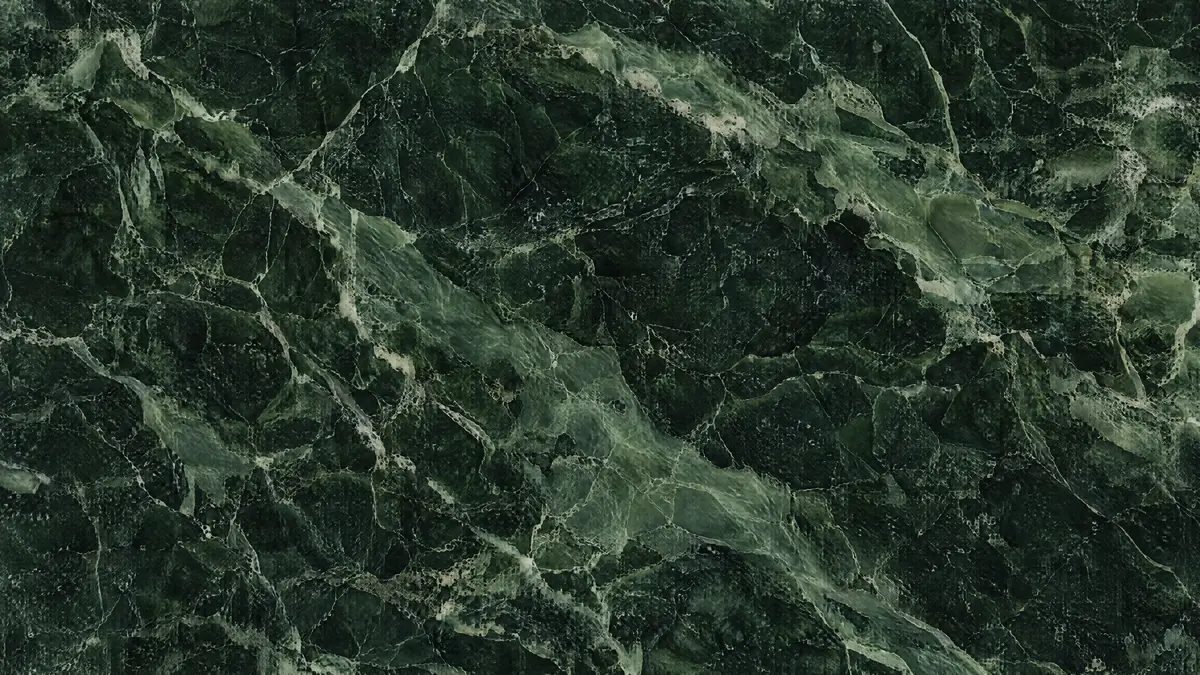
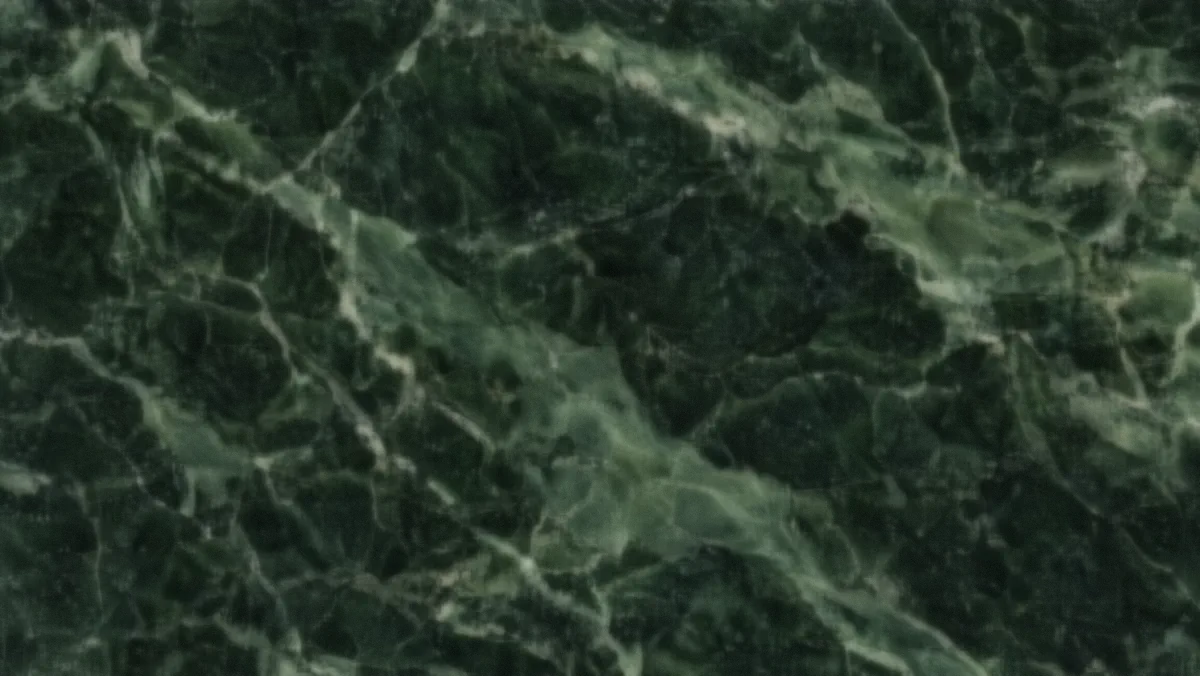
style(site): Verde Alpi z oryginału 4K, lekko rozmyty i bez mocnej kompresji (kontakt, studia, 404, karta OG)

diff --git a/case/aigets/index.html b/case/aigets/index.html
@@ -76,7 +76,7 @@
     <link rel="preload" as="style" href="https://fonts.googleapis.com/css2?family=Playfair+Display:wght@400;600;700&family=DM+Sans:wght@400;500;600;700&family=JetBrains+Mono:wght@400;500;600&display=swap">
     <link href="https://fonts.googleapis.com/css2?family=Playfair+Display:wght@400;600;700&family=DM+Sans:wght@400;500;600;700&family=JetBrains+Mono:wght@400;500;600&display=swap" rel="stylesheet" media="print" onload="this.media='all'">
     <noscript><link href="https://fonts.googleapis.com/css2?family=Playfair+Display:wght@400;600;700&family=DM+Sans:wght@400;500;600;700&family=JetBrains+Mono:wght@400;500;600&display=swap" rel="stylesheet"></noscript>
-    <link rel="stylesheet" href="/style.css?v=114">
+    <link rel="stylesheet" href="/style.css?v=115">
 </head>
 <body>
     <!-- Skip to main content link for accessibility -->

diff --git a/case/analizy-danych/index.html b/case/analizy-danych/index.html
@@ -89,7 +89,7 @@
     <link rel="preload" as="style" href="https://fonts.googleapis.com/css2?family=Playfair+Display:wght@400;600;700&family=DM+Sans:wght@400;500;600;700&family=JetBrains+Mono:wght@400;500;600&display=swap">
     <link href="https://fonts.googleapis.com/css2?family=Playfair+Display:wght@400;600;700&family=DM+Sans:wght@400;500;600;700&family=JetBrains+Mono:wght@400;500;600&display=swap" rel="stylesheet" media="print" onload="this.media='all'">
     <noscript><link href="https://fonts.googleapis.com/css2?family=Playfair+Display:wght@400;600;700&family=DM+Sans:wght@400;500;600;700&family=JetBrains+Mono:wght@400;500;600&display=swap" rel="stylesheet"></noscript>
-    <link rel="stylesheet" href="/style.css?v=114">
+    <link rel="stylesheet" href="/style.css?v=115">
 </head>
 <body>
     <!-- Skip to main content link for accessibility -->

diff --git a/case/automargiela/index.html b/case/automargiela/index.html
@@ -77,7 +77,7 @@
     <link rel="preload" as="style" href="https://fonts.googleapis.com/css2?family=Playfair+Display:wght@400;600;700&family=DM+Sans:wght@400;500;600;700&family=JetBrains+Mono:wght@400;500;600&display=swap">
     <link href="https://fonts.googleapis.com/css2?family=Playfair+Display:wght@400;600;700&family=DM+Sans:wght@400;500;600;700&family=JetBrains+Mono:wght@400;500;600&display=swap" rel="stylesheet" media="print" onload="this.media='all'">
     <noscript><link href="https://fonts.googleapis.com/css2?family=Playfair+Display:wght@400;600;700&family=DM+Sans:wght@400;500;600;700&family=JetBrains+Mono:wght@400;500;600&display=swap" rel="stylesheet"></noscript>
-    <link rel="stylesheet" href="/style.css?v=114">
+    <link rel="stylesheet" href="/style.css?v=115">
 </head>
 <body>
     <!-- Skip to main content link for accessibility -->

diff --git a/case/jakieprawo/index.html b/case/jakieprawo/index.html
@@ -77,7 +77,7 @@
     <link rel="preload" as="style" href="https://fonts.googleapis.com/css2?family=Playfair+Display:wght@400;600;700&family=DM+Sans:wght@400;500;600;700&family=JetBrains+Mono:wght@400;500;600&display=swap">
     <link href="https://fonts.googleapis.com/css2?family=Playfair+Display:wght@400;600;700&family=DM+Sans:wght@400;500;600;700&family=JetBrains+Mono:wght@400;500;600&display=swap" rel="stylesheet" media="print" onload="this.media='all'">
     <noscript><link href="https://fonts.googleapis.com/css2?family=Playfair+Display:wght@400;600;700&family=DM+Sans:wght@400;500;600;700&family=JetBrains+Mono:wght@400;500;600&display=swap" rel="stylesheet"></noscript>
-    <link rel="stylesheet" href="/style.css?v=114">
+    <link rel="stylesheet" href="/style.css?v=115">
 </head>
 <body>
     <!-- Skip to main content link for accessibility -->

diff --git a/case/majeranek/index.html b/case/majeranek/index.html
@@ -77,7 +77,7 @@
     <link rel="preload" as="style" href="https://fonts.googleapis.com/css2?family=Playfair+Display:wght@400;600;700&family=DM+Sans:wght@400;500;600;700&family=JetBrains+Mono:wght@400;500;600&display=swap">
     <link href="https://fonts.googleapis.com/css2?family=Playfair+Display:wght@400;600;700&family=DM+Sans:wght@400;500;600;700&family=JetBrains+Mono:wght@400;500;600&display=swap" rel="stylesheet" media="print" onload="this.media='all'">
     <noscript><link href="https://fonts.googleapis.com/css2?family=Playfair+Display:wght@400;600;700&family=DM+Sans:wght@400;500;600;700&family=JetBrains+Mono:wght@400;500;600&display=swap" rel="stylesheet"></noscript>
-    <link rel="stylesheet" href="/style.css?v=114">
+    <link rel="stylesheet" href="/style.css?v=115">
 </head>
 <body>
     <!-- Skip to main content link for accessibility -->

diff --git a/case/narzedzia/index.html b/case/narzedzia/index.html
@@ -98,7 +98,7 @@
     <link rel="preload" as="style" href="https://fonts.googleapis.com/css2?family=Playfair+Display:wght@400;600;700&family=DM+Sans:wght@400;500;600;700&family=JetBrains+Mono:wght@400;500;600&display=swap">
     <link href="https://fonts.googleapis.com/css2?family=Playfair+Display:wght@400;600;700&family=DM+Sans:wght@400;500;600;700&family=JetBrains+Mono:wght@400;500;600&display=swap" rel="stylesheet" media="print" onload="this.media='all'">
     <noscript><link href="https://fonts.googleapis.com/css2?family=Playfair+Display:wght@400;600;700&family=DM+Sans:wght@400;500;600;700&family=JetBrains+Mono:wght@400;500;600&display=swap" rel="stylesheet"></noscript>
-    <link rel="stylesheet" href="/style.css?v=114">
+    <link rel="stylesheet" href="/style.css?v=115">
 </head>
 <body>
     <!-- Skip to main content link for accessibility -->

diff --git a/case/parawan/index.html b/case/parawan/index.html
@@ -77,7 +77,7 @@
     <link rel="preload" as="style" href="https://fonts.googleapis.com/css2?family=Playfair+Display:wght@400;600;700&family=DM+Sans:wght@400;500;600;700&family=JetBrains+Mono:wght@400;500;600&display=swap">
     <link href="https://fonts.googleapis.com/css2?family=Playfair+Display:wght@400;600;700&family=DM+Sans:wght@400;500;600;700&family=JetBrains+Mono:wght@400;500;600&display=swap" rel="stylesheet" media="print" onload="this.media='all'">
     <noscript><link href="https://fonts.googleapis.com/css2?family=Playfair+Display:wght@400;600;700&family=DM+Sans:wght@400;500;600;700&family=JetBrains+Mono:wght@400;500;600&display=swap" rel="stylesheet"></noscript>
-    <link rel="stylesheet" href="/style.css?v=114">
+    <link rel="stylesheet" href="/style.css?v=115">
 </head>
 <body>
     <!-- Skip to main content link for accessibility -->

diff --git a/case/upfor/index.html b/case/upfor/index.html
@@ -77,7 +77,7 @@
     <link rel="preload" as="style" href="https://fonts.googleapis.com/css2?family=Playfair+Display:wght@400;600;700&family=DM+Sans:wght@400;500;600;700&family=JetBrains+Mono:wght@400;500;600&display=swap">
     <link href="https://fonts.googleapis.com/css2?family=Playfair+Display:wght@400;600;700&family=DM+Sans:wght@400;500;600;700&family=JetBrains+Mono:wght@400;500;600&display=swap" rel="stylesheet" media="print" onload="this.media='all'">
     <noscript><link href="https://fonts.googleapis.com/css2?family=Playfair+Display:wght@400;600;700&family=DM+Sans:wght@400;500;600;700&family=JetBrains+Mono:wght@400;500;600&display=swap" rel="stylesheet"></noscript>
-    <link rel="stylesheet" href="/style.css?v=114">
+    <link rel="stylesheet" href="/style.css?v=115">
 </head>
 <body>
     <!-- Skip to main content link for accessibility -->

diff --git a/case/urzednik-i-ai/index.html b/case/urzednik-i-ai/index.html
@@ -77,7 +77,7 @@
     <link rel="preload" as="style" href="https://fonts.googleapis.com/css2?family=Playfair+Display:wght@400;600;700&family=DM+Sans:wght@400;500;600;700&family=JetBrains+Mono:wght@400;500;600&display=swap">
     <link href="https://fonts.googleapis.com/css2?family=Playfair+Display:wght@400;600;700&family=DM+Sans:wght@400;500;600;700&family=JetBrains+Mono:wght@400;500;600&display=swap" rel="stylesheet" media="print" onload="this.media='all'">
     <noscript><link href="https://fonts.googleapis.com/css2?family=Playfair+Display:wght@400;600;700&family=DM+Sans:wght@400;500;600;700&family=JetBrains+Mono:wght@400;500;600&display=swap" rel="stylesheet"></noscript>
-    <link rel="stylesheet" href="/style.css?v=114">
+    <link rel="stylesheet" href="/style.css?v=115">
 </head>
 <body>
     <!-- Skip to main content link for accessibility -->

diff --git a/case/zorza/index.html b/case/zorza/index.html
@@ -77,7 +77,7 @@
     <link rel="preload" as="style" href="https://fonts.googleapis.com/css2?family=Playfair+Display:wght@400;600;700&family=DM+Sans:wght@400;500;600;700&family=JetBrains+Mono:wght@400;500;600&display=swap">
     <link href="https://fonts.googleapis.com/css2?family=Playfair+Display:wght@400;600;700&family=DM+Sans:wght@400;500;600;700&family=JetBrains+Mono:wght@400;500;600&display=swap" rel="stylesheet" media="print" onload="this.media='all'">
     <noscript><link href="https://fonts.googleapis.com/css2?family=Playfair+Display:wght@400;600;700&family=DM+Sans:wght@400;500;600;700&family=JetBrains+Mono:wght@400;500;600&display=swap" rel="stylesheet"></noscript>
-    <link rel="stylesheet" href="/style.css?v=114">
+    <link rel="stylesheet" href="/style.css?v=115">
 </head>
 <body>
     <!-- Skip to main content link for accessibility -->

diff --git a/index.html b/index.html
@@ -112,7 +112,7 @@
     <link rel="preload" as="style" href="https://fonts.googleapis.com/css2?family=Playfair+Display:wght@400;600;700&family=DM+Sans:wght@400;500;600;700&family=JetBrains+Mono:wght@400;500;600&display=swap">
     <link href="https://fonts.googleapis.com/css2?family=Playfair+Display:wght@400;600;700&family=DM+Sans:wght@400;500;600;700&family=JetBrains+Mono:wght@400;500;600&display=swap" rel="stylesheet" media="print" onload="this.media='all'">
     <noscript><link href="https://fonts.googleapis.com/css2?family=Playfair+Display:wght@400;600;700&family=DM+Sans:wght@400;500;600;700&family=JetBrains+Mono:wght@400;500;600&display=swap" rel="stylesheet"></noscript>
-    <link rel="stylesheet" href="style.css?v=114">
+    <link rel="stylesheet" href="style.css?v=115">
 </head>
 <body>
     <!-- Skip to main content link for accessibility -->

diff --git a/style.css b/style.css
@@ -5404,7 +5404,7 @@ html { scrollbar-color: var(--color-phthalo-mid) transparent; }
 [data-theme="dark"] .contact.s1-section {
     /* Verde Alpi marble: a darker field behind the content, veins quietly visible around it */
     background:
-        radial-gradient(700px 440px at 50% 430px, rgba(18, 16, 13, 0.86) 0%, rgba(18, 16, 13, 0.74) 60%, rgba(18, 16, 13, 0.6) 100%),
+        radial-gradient(700px 440px at 50% 430px, rgba(18, 16, 13, 0.8) 0%, rgba(18, 16, 13, 0.62) 60%, rgba(18, 16, 13, 0.45) 100%),
         linear-gradient(180deg, var(--color-bg) 0%, transparent 16%, transparent 82%, var(--color-bg) 100%),
         url("assets/images/brand/verde-alpi.webp") center / cover no-repeat,
         var(--color-bg);
